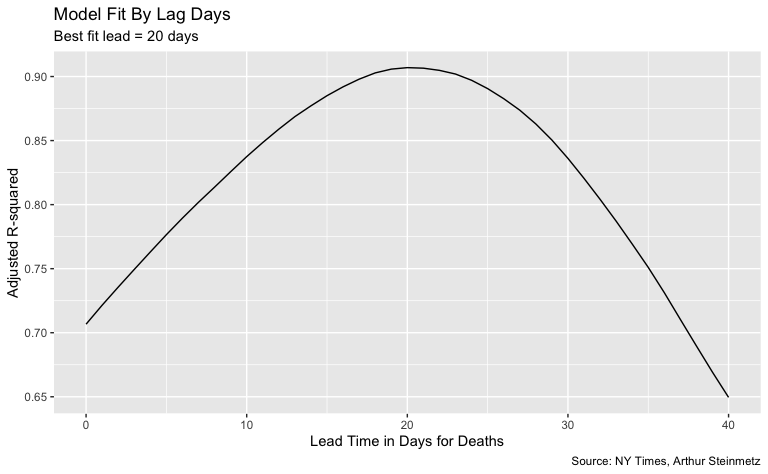
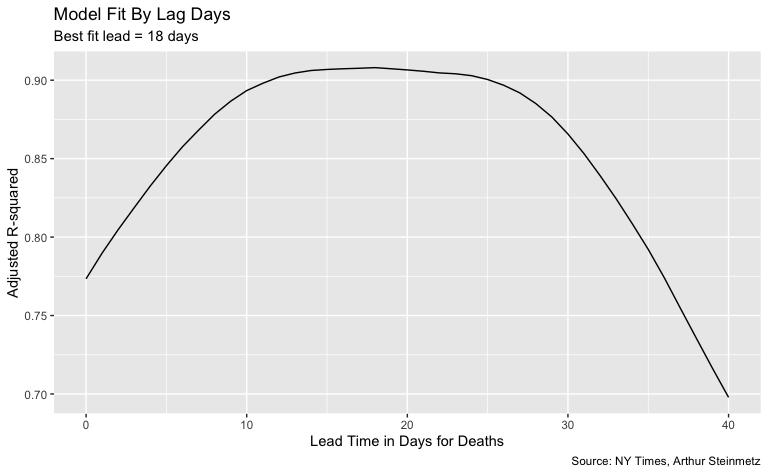
Updated output

diff --git a/AS_original_code.md b/AS_original_code.md
@@ -64,7 +64,7 @@ us_states_long <- us_states_long %>% filter(date <= cutoff_end)
 # Remove tiny territories
 territories <- c("Guam", "Northern Mariana Islands")
 us_states_long <- us_states_long %>% filter(!(location %in% territories))
-save(us_states_long, file = "us_states_long.rdata")
+# - removed - save(us_states_long, file = "us_states_long.rdata")
 us_states_long %>%
   head() %>%
   kable()
@@ -123,7 +123,8 @@ us <- us_states %>%
   group_by(date) %>%
   summarize(across(
     .cols = where(is.double),
-    .fns = function(x) sum(x, na.rm = T),
+    .fns = function(x) sum(x),  #  Art's original code included ", na.rm = T" in the sum call
+                                # this introduced zeros into the time series which - I believe - was an error
     .names = "{col}"
   ))
 
@@ -229,11 +230,11 @@ lm(deaths_7day ~ cases_7day + date, data = us) %>%
   kable()
 ```
 
-| term        |      estimate |    std.error | statistic | p.value |
-|:------------|--------------:|-------------:|----------:|--------:|
-| (Intercept) | 76531.4269108 | 1.005355e+04 |  7.612381 |       0 |
-| cases\_7day |     0.0082774 | 1.117400e-03 |  7.407811 |       0 |
-| date        |    -4.1122243 | 5.467092e-01 | -7.521777 |       0 |
+| term        |      estimate |    std.error |  statistic | p.value |
+|:------------|--------------:|-------------:|-----------:|--------:|
+| (Intercept) | 93686.7634770 | 8962.9227039 |  10.452702 |       0 |
+| cases\_7day |     0.0080965 |    0.0009757 |   8.298497 |       0 |
+| date        |    -5.0384095 |    0.4872574 | -10.340345 |       0 |
 
 ``` r
 #  gt() %>% 
@@ -268,15 +269,15 @@ us_lags[1:10, 1:7] %>%
 
 | date       | cases\_total | deaths\_total | cases\_7day | deaths\_7day | deaths\_7day\_lead0 | deaths\_7day\_lead1 |
 |:-----------|-------------:|--------------:|------------:|-------------:|--------------------:|--------------------:|
-| 2020-03-15 |         3597 |            68 |       0.000 |      0.00000 |             0.00000 |             0.00000 |
-| 2020-03-16 |         4504 |            91 |       0.000 |      0.00000 |             0.00000 |             0.00000 |
-| 2020-03-17 |         5903 |           117 |       0.000 |      0.00000 |             0.00000 |             0.00000 |
-| 2020-03-18 |         8342 |           162 |       0.000 |      0.00000 |             0.00000 |             0.00000 |
-| 2020-03-19 |        12381 |           212 |       0.000 |      0.00000 |             0.00000 |             0.00000 |
-| 2020-03-20 |        17998 |           277 |       0.000 |      0.00000 |             0.00000 |             0.00000 |
-| 2020-03-21 |        24513 |           360 |       0.000 |      0.00000 |             0.00000 |            55.57143 |
-| 2020-03-22 |        33046 |           457 |    4204.714 |     55.57143 |            55.57143 |            69.57143 |
-| 2020-03-23 |        43476 |           578 |    5565.143 |     69.57143 |            69.57143 |            95.28571 |
+| 2020-03-15 |         3597 |            68 |          NA |           NA |                  NA |                  NA |
+| 2020-03-16 |         4504 |            91 |          NA |           NA |                  NA |                  NA |
+| 2020-03-17 |         5903 |           117 |          NA |           NA |                  NA |                  NA |
+| 2020-03-18 |         8342 |           162 |          NA |           NA |                  NA |                  NA |
+| 2020-03-19 |        12381 |           212 |          NA |           NA |                  NA |                  NA |
+| 2020-03-20 |        17998 |           277 |          NA |           NA |                  NA |                  NA |
+| 2020-03-21 |        24513 |           360 |          NA |           NA |                  NA |                  NA |
+| 2020-03-22 |        33046 |           457 |          NA |           NA |                  NA |                  NA |
+| 2020-03-23 |        43476 |           578 |          NA |           NA |                  NA |            95.28571 |
 | 2020-03-24 |        53906 |           784 |    6857.571 |     95.28571 |            95.28571 |           127.28571 |
 
 ``` r
@@ -334,16 +335,16 @@ print(models)
 #> # A tibble: 41 x 4
 #>     lead data                   model  adj_r
 #>    <dbl> <list>                 <list> <dbl>
-#>  1     0 <tibble[,3] [218 × 3]> <lm>   0.164
-#>  2     1 <tibble[,3] [218 × 3]> <lm>   0.187
-#>  3     2 <tibble[,3] [218 × 3]> <lm>   0.212
-#>  4     3 <tibble[,3] [218 × 3]> <lm>   0.241
-#>  5     4 <tibble[,3] [218 × 3]> <lm>   0.272
-#>  6     5 <tibble[,3] [218 × 3]> <lm>   0.307
-#>  7     6 <tibble[,3] [218 × 3]> <lm>   0.343
-#>  8     7 <tibble[,3] [218 × 3]> <lm>   0.383
-#>  9     8 <tibble[,3] [218 × 3]> <lm>   0.424
-#> 10     9 <tibble[,3] [218 × 3]> <lm>   0.467
+#>  1     0 <tibble[,3] [218 × 3]> <lm>   0.265
+#>  2     1 <tibble[,3] [218 × 3]> <lm>   0.310
+#>  3     2 <tibble[,3] [218 × 3]> <lm>   0.358
+#>  4     3 <tibble[,3] [218 × 3]> <lm>   0.411
+#>  5     4 <tibble[,3] [218 × 3]> <lm>   0.467
+#>  6     5 <tibble[,3] [218 × 3]> <lm>   0.524
+#>  7     6 <tibble[,3] [218 × 3]> <lm>   0.584
+#>  8     7 <tibble[,3] [218 × 3]> <lm>   0.642
+#>  9     8 <tibble[,3] [218 × 3]> <lm>   0.698
+#> 10     9 <tibble[,3] [218 × 3]> <lm>   0.749
 #> # … with 31 more rows
 ```
 
@@ -387,10 +388,10 @@ best_fit$model[[1]] %>%
 
 | term           |      estimate |   std.error | statistic | p.value |
 |:---------------|--------------:|------------:|----------:|--------:|
-| (Intercept)    |   436.3549254 |  37.9841305 |  11.48782 |       0 |
-| cases\_7day    |     0.0166854 |   0.0009925 |  16.81214 |       0 |
-| poly(date, 2)1 | -7305.2111115 | 226.9860335 | -32.18353 |       0 |
-| poly(date, 2)2 |  4511.7137019 | 167.3880791 |  26.95361 |       0 |
+| (Intercept)    |   423.9598818 |  33.6681271 |  12.59232 |       0 |
+| cases\_7day    |     0.0178794 |   0.0008688 |  20.57838 |       0 |
+| poly(date, 2)1 | -8238.7636062 | 197.4916264 | -41.71703 |       0 |
+| poly(date, 2)2 |  4583.8230934 | 153.9690425 |  29.77107 |       0 |
 
 ``` r
 #  gt() %>% 

diff --git a/AS_code_up_to_current.md b/AS_code_up_to_current.md
@@ -74,7 +74,7 @@ us <- us_states %>%
   group_by(date) %>%
   summarize(across(
     .cols = where(is.double),
-    .fns = function(x) sum(x, na.rm = T),
+    .fns = function(x) sum(x),
     .names = "{col}"
   ))
 
@@ -153,11 +153,11 @@ lm(deaths_7day ~ cases_7day + date, data = us) %>%
   kable()
 ```
 
-| term        |      estimate |    std.error | statistic |   p.value |
-|:------------|--------------:|-------------:|----------:|----------:|
-| (Intercept) | -9121.3777876 | 6362.3967835 | -1.433639 | 0.1524870 |
-| cases\_7day |     0.0085445 |    0.0005942 | 14.379282 | 0.0000000 |
-| date        |     0.5328273 |    0.3449081 |  1.544839 | 0.1232069 |
+| term        |      estimate |    std.error |  statistic |   p.value |
+|:------------|--------------:|-------------:|-----------:|----------:|
+| (Intercept) | -2477.3137929 | 6221.7637673 | -0.3981691 | 0.6907286 |
+| cases\_7day |     0.0086281 |    0.0005817 | 14.8331342 | 0.0000000 |
+| date        |     0.1745406 |    0.3371035 |  0.5177657 | 0.6049223 |
 
 ``` r
 # create columns for deaths led 0 to 40 days ahead
@@ -177,15 +177,15 @@ us_lags[1:10, 1:7] %>%
 
 | date       | cases\_total | deaths\_total | cases\_7day | deaths\_7day | deaths\_7day\_lead0 | deaths\_7day\_lead1 |
 |:-----------|-------------:|--------------:|------------:|-------------:|--------------------:|--------------------:|
-| 2020-03-15 |         3597 |            68 |       0.000 |      0.00000 |             0.00000 |             0.00000 |
-| 2020-03-16 |         4504 |            91 |       0.000 |      0.00000 |             0.00000 |             0.00000 |
-| 2020-03-17 |         5903 |           117 |       0.000 |      0.00000 |             0.00000 |             0.00000 |
-| 2020-03-18 |         8342 |           162 |       0.000 |      0.00000 |             0.00000 |             0.00000 |
-| 2020-03-19 |        12381 |           212 |       0.000 |      0.00000 |             0.00000 |             0.00000 |
-| 2020-03-20 |        17998 |           277 |       0.000 |      0.00000 |             0.00000 |             0.00000 |
-| 2020-03-21 |        24513 |           360 |       0.000 |      0.00000 |             0.00000 |            55.57143 |
-| 2020-03-22 |        33046 |           457 |    4204.714 |     55.57143 |            55.57143 |            69.57143 |
-| 2020-03-23 |        43476 |           578 |    5565.143 |     69.57143 |            69.57143 |            95.28571 |
+| 2020-03-15 |         3597 |            68 |          NA |           NA |                  NA |                  NA |
+| 2020-03-16 |         4504 |            91 |          NA |           NA |                  NA |                  NA |
+| 2020-03-17 |         5903 |           117 |          NA |           NA |                  NA |                  NA |
+| 2020-03-18 |         8342 |           162 |          NA |           NA |                  NA |                  NA |
+| 2020-03-19 |        12381 |           212 |          NA |           NA |                  NA |                  NA |
+| 2020-03-20 |        17998 |           277 |          NA |           NA |                  NA |                  NA |
+| 2020-03-21 |        24513 |           360 |          NA |           NA |                  NA |                  NA |
+| 2020-03-22 |        33046 |           457 |          NA |           NA |                  NA |                  NA |
+| 2020-03-23 |        43476 |           578 |          NA |           NA |                  NA |            95.28571 |
 | 2020-03-24 |        53906 |           784 |    6857.571 |     95.28571 |            95.28571 |           127.28571 |
 
 ``` r
@@ -221,16 +221,16 @@ print(models)
 #> # A tibble: 41 x 4
 #>     lead data                   model  adj_r
 #>    <dbl> <list>                 <list> <dbl>
-#>  1     0 <tibble[,3] [347 × 3]> <lm>   0.707
-#>  2     1 <tibble[,3] [347 × 3]> <lm>   0.721
-#>  3     2 <tibble[,3] [347 × 3]> <lm>   0.736
-#>  4     3 <tibble[,3] [347 × 3]> <lm>   0.749
-#>  5     4 <tibble[,3] [347 × 3]> <lm>   0.763
-#>  6     5 <tibble[,3] [347 × 3]> <lm>   0.777
-#>  7     6 <tibble[,3] [347 × 3]> <lm>   0.789
-#>  8     7 <tibble[,3] [347 × 3]> <lm>   0.802
-#>  9     8 <tibble[,3] [347 × 3]> <lm>   0.814
-#> 10     9 <tibble[,3] [347 × 3]> <lm>   0.826
+#>  1     0 <tibble[,3] [352 × 3]> <lm>   0.773
+#>  2     1 <tibble[,3] [352 × 3]> <lm>   0.790
+#>  3     2 <tibble[,3] [352 × 3]> <lm>   0.805
+#>  4     3 <tibble[,3] [352 × 3]> <lm>   0.819
+#>  5     4 <tibble[,3] [352 × 3]> <lm>   0.833
+#>  6     5 <tibble[,3] [352 × 3]> <lm>   0.846
+#>  7     6 <tibble[,3] [352 × 3]> <lm>   0.858
+#>  8     7 <tibble[,3] [352 × 3]> <lm>   0.868
+#>  9     8 <tibble[,3] [352 × 3]> <lm>   0.878
+#> 10     9 <tibble[,3] [352 × 3]> <lm>   0.887
 #> # … with 31 more rows
 ```
 
@@ -264,10 +264,10 @@ best_fit$model[[1]] %>%
 
 | term           |      estimate |   std.error | statistic | p.value |
 |:---------------|--------------:|------------:|----------:|--------:|
-| (Intercept)    |   529.3820322 |  29.7726398 |  17.78082 |       0 |
-| cases\_7day    |     0.0122492 |   0.0003268 |  37.48765 |       0 |
-| poly(date, 2)1 | -4430.9524545 | 413.6188468 | -10.71265 |       0 |
-| poly(date, 2)2 |  6200.2752569 | 258.0003762 |  24.03204 |       0 |
+| (Intercept)    |   536.1631581 |  28.5208819 |  18.79897 |       0 |
+| cases\_7day    |     0.0122374 |   0.0003091 |  39.59688 |       0 |
+| poly(date, 2)1 | -4519.4721373 | 400.2499002 | -11.29163 |       0 |
+| poly(date, 2)2 |  6791.9225593 | 271.2624893 |  25.03819 |       0 |
 
 ``` r
 # ------------------------------------------
@@ -461,7 +461,7 @@ best_fit_st %>%
 
 | state |    adj\_r | lead |
 |:------|----------:|-----:|
-| Ohio  | 0.2103999 |   35 |
+| Ohio  | 0.2093096 |   35 |
 
 ``` r
 # source: https://coronavirus.ohio.gov/static/dashboards/COVIDSummaryData.csv
